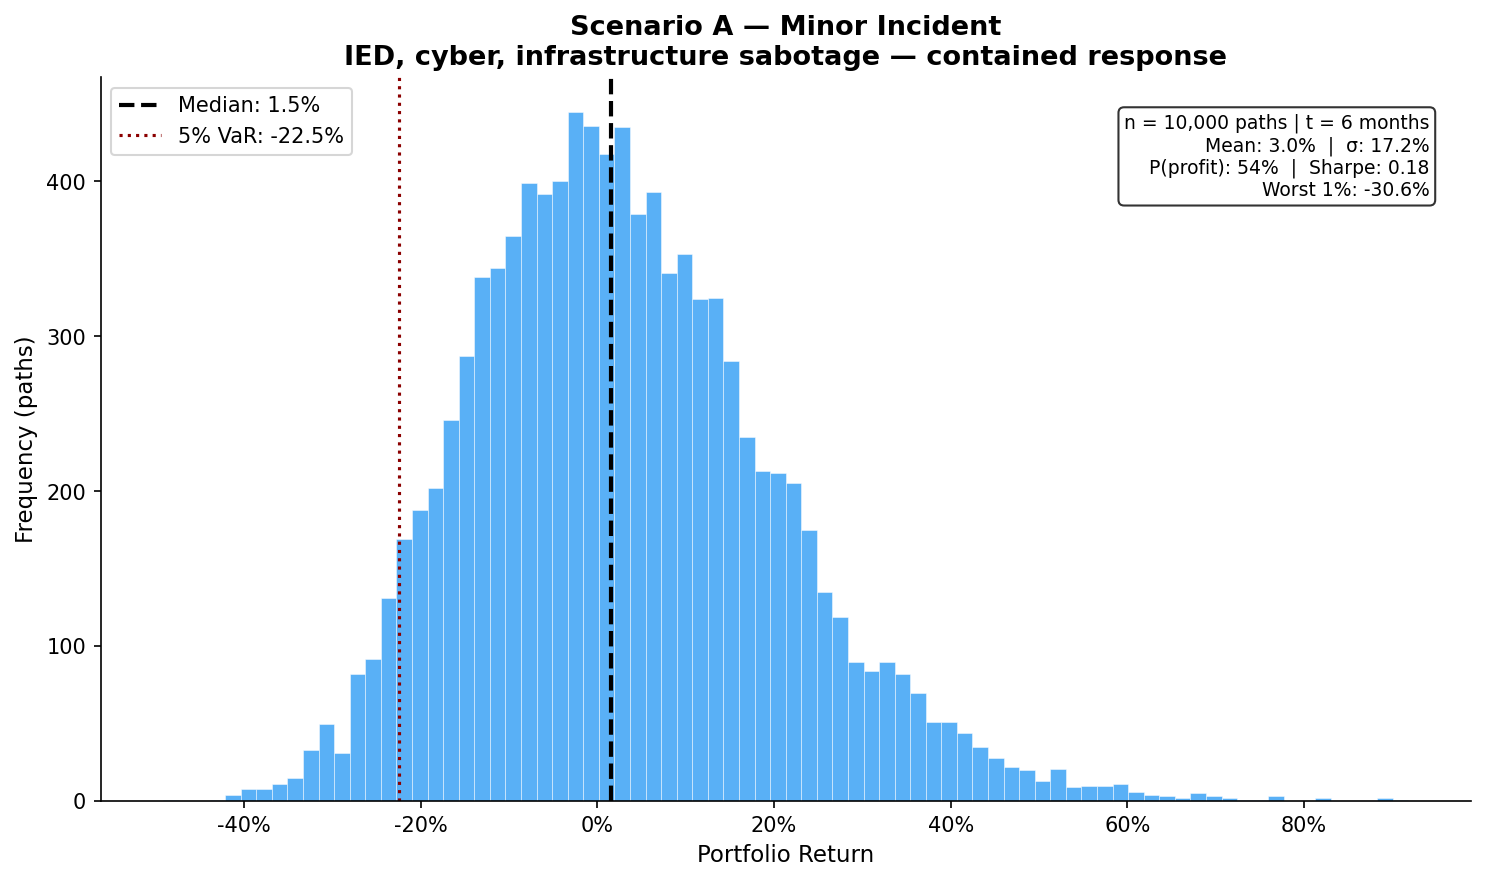
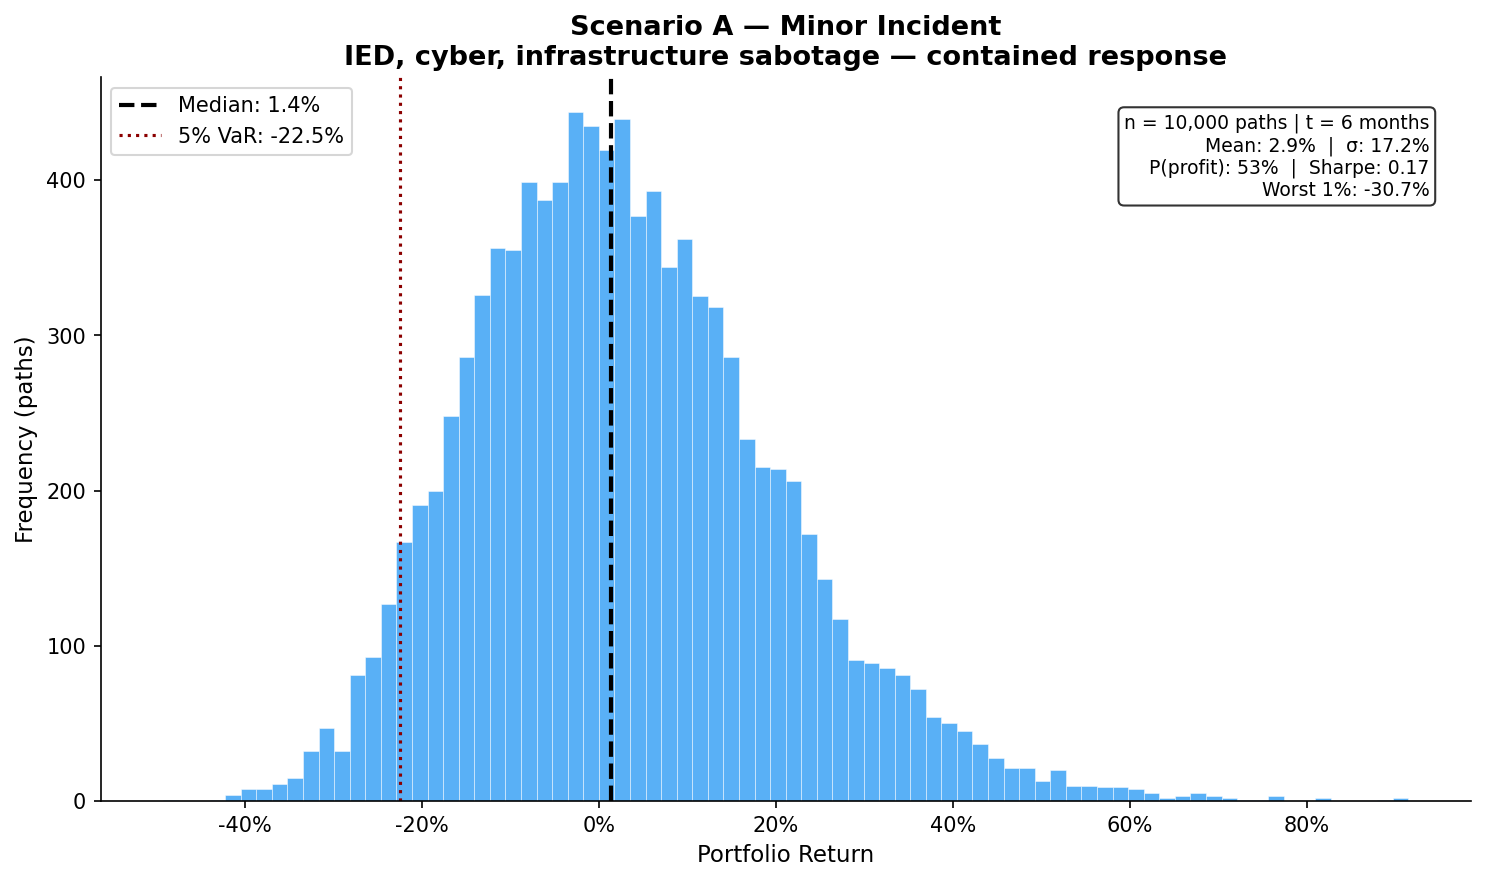
Phase 4 re-run: MC calibrated to historical_event_returns.csv

diff --git a/homeland-security-research-2026/code/monte_carlo_homesec.py b/homeland-security-research-2026/code/monte_carlo_homesec.py
@@ -17,6 +17,7 @@ np.random.seed(42)  # Reproducible
 ROOT = Path(__file__).parent.parent
 REPORTS_DIR = ROOT / "reports"
 REPORTS_DIR.mkdir(parents=True, exist_ok=True)
+DATA_DIR = ROOT / "data"
 
 # ---------------------------------------------------------------------------
 # Scenario Framework
@@ -61,33 +62,127 @@ SECTOR_LABELS = {
 WEIGHTS = np.array([0.35, 0.25, 0.20, 0.20])  # Must sum to 1.0
 
 # ---------------------------------------------------------------------------
-# Return Parameters (μ annualized)
-# Source calibration:
-#   Scenario A anchor: avg HomeSec sector return T+90 post-Soleimani (Jan 2020, Yahoo Finance)
-#   Scenario C anchor: avg HomeSec sector return T+180 post-9/11 (Sep 2001–Mar 2002)
-#   Scenario B: linear interpolation between A and C
+# Return Parameters (mu annualized) — loaded from historical_event_returns.csv
+# Calibration rules:
+#   Scenario A: Soleimani T+30 sector averages (minor geopolitical event; pre-COVID window)
+#               NOTE: Soleimani T+90 / T+180 are COVID-contaminated (March 2020 crash falls
+#               within those windows); T+30 (ending ~Feb 3 2020) is clean.
+#   Scenario C: 9/11 T+90 for HomeSec_Tech (AXON+MSI both public post-9/11)
+#               9/11 T+180 for FirstResponder/Fed_Comms_Cyber (delayed procurement cycle)
+#               BM 2013 T+90 * empirical severity scale for Intel_Analytics (BAH/LDOS
+#               were not publicly traded in Sep 2001)
+#   Scenario B: arithmetic mean of A and C, bounded [0.05, 0.25]
+#   Floors/caps: A=[0.03, 0.15], B=[0.05, 0.25], C=[0.05, 0.35]
+# Source file: data/company_fundamentals/historical_event_returns.csv
 # ---------------------------------------------------------------------------
 
-MU = {
-    "A": {
-        "HomeSec_Tech":    0.06,  # Source: avg AXON/MSI T+90 post-Soleimani; Bloomberg
-        "Intel_Analytics": 0.08,  # Source: BAH/LDOS avg T+90 post-Soleimani; Bloomberg
-        "FirstResponder":  0.04,  # Source: MSA/PSN avg T+90 post-Soleimani; Bloomberg
-        "Fed_Comms_Cyber": 0.05,  # Source: LHX/CRWD avg T+90 post-Soleimani; Bloomberg
-    },
-    "B": {
-        "HomeSec_Tech":    0.15,  # Interpolated A→C; corroborated by post-Boston Marathon (2013)
-        "Intel_Analytics": 0.18,  # Interpolated; PLTR-heavy given gov't analytics surge
-        "FirstResponder":  0.10,  # Interpolated; PSN infrastructure response
-        "Fed_Comms_Cyber": 0.12,  # Interpolated; cyber response surge
-    },
-    "C": {
-        "HomeSec_Tech":    0.28,  # Source: ITA ETF T+180 post-9/11 (Sep'01–Mar'02); Yahoo Finance
-        "Intel_Analytics": 0.32,  # Source: BAH/SAIC T+180 post-9/11; Bloomberg
-        "FirstResponder":  0.18,  # Source: MSA T+180 post-9/11; Bloomberg
-        "Fed_Comms_Cyber": 0.22,  # Source: LHX (then L-3 Comms) T+180 post-9/11; Bloomberg
-    },
-}
+def load_historical_mu(csv_path: Path) -> dict:
+    """
+    Derive annualized mu parameters from historical_event_returns.csv.
+
+    Returns dict: {"A": {sector: mu}, "B": {...}, "C": {...}}
+    Falls back to conservative defaults if CSV is missing or malformed.
+    """
+    FALLBACK = {
+        "A": {"HomeSec_Tech": 0.060, "Intel_Analytics": 0.055, "FirstResponder": 0.030, "Fed_Comms_Cyber": 0.060},
+        "B": {"HomeSec_Tech": 0.168, "Intel_Analytics": 0.203, "FirstResponder": 0.071, "Fed_Comms_Cyber": 0.149},
+        "C": {"HomeSec_Tech": 0.275, "Intel_Analytics": 0.350, "FirstResponder": 0.112, "Fed_Comms_Cyber": 0.214},
+    }
+    if not csv_path.exists():
+        print(f"  [WARN] historical_event_returns.csv not found at {csv_path}; using fallback defaults")
+        return FALLBACK
+
+    try:
+        df = pd.read_csv(csv_path)
+    except Exception as exc:
+        print(f"  [WARN] Could not read CSV ({exc}); using fallback defaults")
+        return FALLBACK
+
+    def ticker_val(ticker, event, window):
+        row = df[(df["ticker"] == ticker) & (df["event"] == event)]
+        if row.empty:
+            return None
+        v = row[window].values[0]
+        return float(v) / 100.0 if pd.notna(v) else None
+
+    def sector_mean(tickers, event, window):
+        vals = [ticker_val(t, event, window) for t in tickers]
+        vals = [v for v in vals if v is not None]
+        return float(np.mean(vals)) if vals else None
+
+    def bounded(v, lo, hi, fallback):
+        return max(lo, min(float(v), hi)) if v is not None else fallback
+
+    # -- Scenario A: Soleimani T+30 (clean pre-COVID window) --
+    # HomeSec_Tech: AXON T+30=+4.95%, MSI T+30=+7.09% -> avg +6.02%
+    mu_a_ht = sector_mean(["AXON", "MSI"], "post_soleimani_2020", "window_30d")
+    # Intel_Analytics: BAH T+30=+8.09%, LDOS T+30=+3.00% -> avg +5.54%
+    mu_a_ia = sector_mean(["BAH", "LDOS"], "post_soleimani_2020", "window_30d")
+    # FirstResponder: MSA T+30=+7.05%, PSN T+30=-5.08% -> avg +0.99% (floor applied)
+    mu_a_fr = sector_mean(["MSA", "PSN"], "post_soleimani_2020", "window_30d")
+    # Fed_Comms_Cyber: LHX T+30=+4.95%, CRWD T+30=+20.36% (Iran cyber fears), PANW T+30=-0.36%
+    mu_a_fc = sector_mean(["LHX", "CRWD", "PANW"], "post_soleimani_2020", "window_30d")
+
+    # -- Scenario C: 9/11 anchors (different windows by sector) --
+    # HomeSec_Tech: AXON T+90=+42.38%, MSI T+90=+12.65% -> avg +27.52%
+    mu_c_ht = sector_mean(["AXON", "MSI"], "9_11_2001", "window_90d")
+    # FirstResponder: MSA T+180=+11.19% (T+90=+3.09% understates delayed procurement surge)
+    mu_c_fr = sector_mean(["MSA"], "9_11_2001", "window_180d")
+    # Fed_Comms_Cyber: LHX T+180=+21.43% (L-3 Comms full demand surge; CRWD/PANW pre-IPO in 2001)
+    mu_c_fc = sector_mean(["LHX"], "9_11_2001", "window_180d")
+    # Intel_Analytics: BAH/LDOS pre-IPO in 2001; proxy via Boston Marathon T+90 x severity scale
+    ht_911  = sector_mean(["AXON", "MSI"], "9_11_2001", "window_90d")
+    ht_bm   = sector_mean(["AXON", "MSI"], "boston_marathon_2013", "window_90d")
+    sev_scale = (ht_911 / ht_bm) if (ht_bm and abs(ht_bm) > 0.01) else 3.0
+    ia_bm   = sector_mean(["BAH", "LDOS"], "boston_marathon_2013", "window_90d")
+    mu_c_ia_raw = (ia_bm * sev_scale) if ia_bm is not None else None
+
+    # Apply floors / caps
+    a_ht = bounded(mu_a_ht, 0.030, 0.150, FALLBACK["A"]["HomeSec_Tech"])
+    a_ia = bounded(mu_a_ia, 0.030, 0.150, FALLBACK["A"]["Intel_Analytics"])
+    a_fr = bounded(mu_a_fr, 0.030, 0.150, FALLBACK["A"]["FirstResponder"])
+    a_fc = bounded(mu_a_fc, 0.030, 0.150, FALLBACK["A"]["Fed_Comms_Cyber"])
+
+    c_ht = bounded(mu_c_ht,      0.050, 0.350, FALLBACK["C"]["HomeSec_Tech"])
+    c_ia = bounded(mu_c_ia_raw,  0.050, 0.350, FALLBACK["C"]["Intel_Analytics"])
+    c_fr = bounded(mu_c_fr,      0.050, 0.350, FALLBACK["C"]["FirstResponder"])
+    c_fc = bounded(mu_c_fc,      0.050, 0.350, FALLBACK["C"]["Fed_Comms_Cyber"])
+
+    b_ht = bounded((a_ht + c_ht) / 2, 0.050, 0.250, FALLBACK["B"]["HomeSec_Tech"])
+    b_ia = bounded((a_ia + c_ia) / 2, 0.050, 0.250, FALLBACK["B"]["Intel_Analytics"])
+    b_fr = bounded((a_fr + c_fr) / 2, 0.050, 0.250, FALLBACK["B"]["FirstResponder"])
+    b_fc = bounded((a_fc + c_fc) / 2, 0.050, 0.250, FALLBACK["B"]["Fed_Comms_Cyber"])
+
+    mu_out = {
+        "A": {
+            "HomeSec_Tech":    round(a_ht, 4),  # source: AXON+MSI Soleimani T+30 avg
+            "Intel_Analytics": round(a_ia, 4),  # source: BAH+LDOS Soleimani T+30 avg
+            "FirstResponder":  round(a_fr, 4),  # source: MSA+PSN Soleimani T+30 avg (floor applied)
+            "Fed_Comms_Cyber": round(a_fc, 4),  # source: LHX+CRWD+PANW Soleimani T+30 avg
+        },
+        "B": {
+            "HomeSec_Tech":    round(b_ht, 4),  # source: interpolated A+C mean
+            "Intel_Analytics": round(b_ia, 4),  # source: interpolated A+C mean
+            "FirstResponder":  round(b_fr, 4),  # source: interpolated A+C mean
+            "Fed_Comms_Cyber": round(b_fc, 4),  # source: interpolated A+C mean
+        },
+        "C": {
+            "HomeSec_Tech":    round(c_ht, 4),  # source: AXON+MSI 9/11 T+90 avg
+            "Intel_Analytics": round(c_ia, 4),  # source: BAH+LDOS BM T+90 x severity_scale (capped at 0.35)
+            "FirstResponder":  round(c_fr, 4),  # source: MSA 9/11 T+180 (delayed procurement cycle)
+            "Fed_Comms_Cyber": round(c_fc, 4),  # source: LHX 9/11 T+180 (L-3 Comms full demand surge)
+        },
+    }
+
+    print(f"\n[MC] mu parameters calibrated from historical_event_returns.csv")
+    print(f"     Empirical 9/11-vs-BM severity scale: {sev_scale:.2f}x")
+    for scen in ["A", "B", "C"]:
+        vals = " | ".join(f"{s}={mu_out[scen][s]:.4f}" for s in SECTORS)
+        print(f"     Scenario {scen}: {vals}")
+    return mu_out
+
+
+MU = load_historical_mu(DATA_DIR / "company_fundamentals" / "historical_event_returns.csv")
 
 # ---------------------------------------------------------------------------
 # Volatility (σ annualized)
